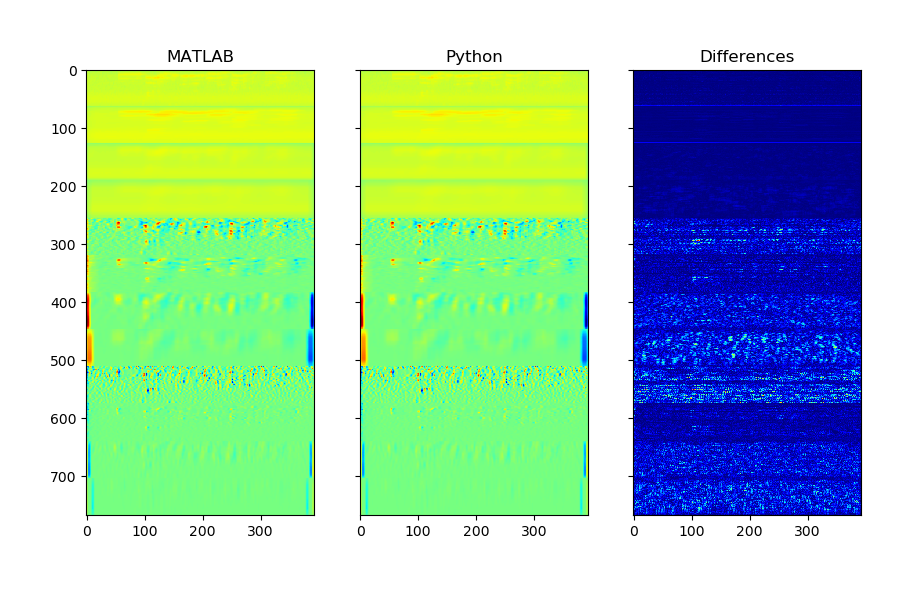
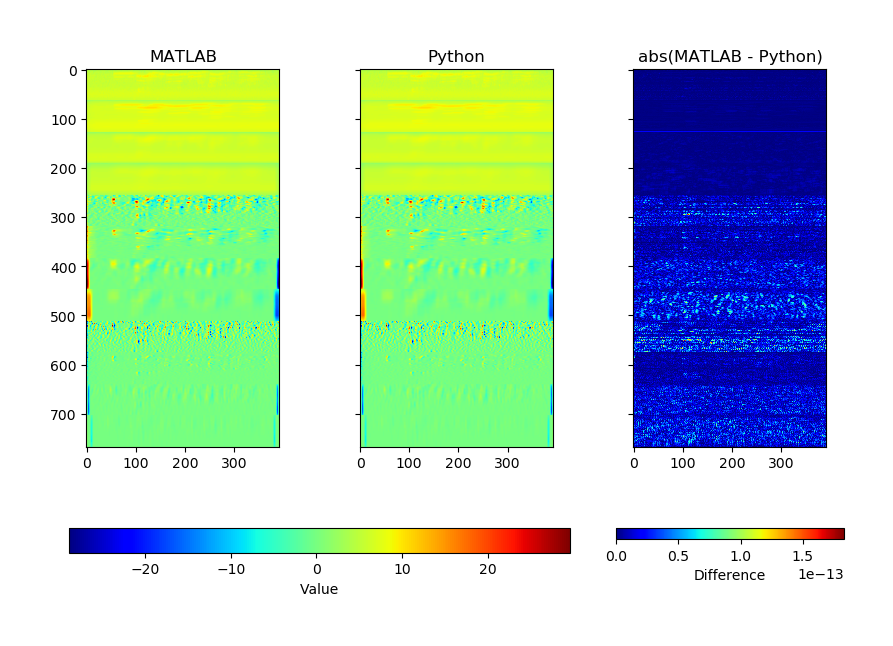
Add colorbars to comparison plot

diff --git a/test_MRCG.py b/test_MRCG.py
@@ -147,23 +147,30 @@ class Test_mrcg_extract(Test_mrcg, unittest.TestCase):
 
     def plot_mrcg(self, mrcg, filename='mrcg_comparison.png'):
         ''' Utility function to save plot of our MRCG to a file '''
-        fig, (ref_ax, our_ax, diff_ax) = plt.subplots(1, 3, 
-                                                     sharex=True,
+        fig, (ref_ax, our_ax, diff_ax) = plt.subplots(nrows=1, ncols=3, 
                                                      sharey=True)
         fig.set_size_inches(10, 7)
         format_kwargs = {
             'cmap':'jet', # Use full range color map for clarity    
         }
         
-        ref_ax.imshow(self.mrcg, **format_kwargs)
+        ref_im = ref_ax.imshow(self.mrcg, **format_kwargs)
         ref_ax.set_title("MATLAB")
         our_ax.imshow(mrcg, **format_kwargs)
         our_ax.set_title("Python")
         
-        # Plot difference
+        # Plot relative difference
         diff = np.abs(self.mrcg - mrcg)
-        diff_ax.imshow(diff, **format_kwargs)
-        diff_ax.set_title("Differences")
+        diff_im = diff_ax.imshow(diff, **format_kwargs)
+        diff_ax.set_title("abs(MATLAB - Python)")
+
+        # Add colorbar to difference
+        diff_cbar = plt.colorbar(diff_im, ax=diff_ax, orientation='horizontal')
+        diff_cbar.set_label("Difference")
+
+        # Add colorbar for total value
+        cbar = plt.colorbar(ref_im, ax=[ref_ax,our_ax], orientation='horizontal')
+        cbar.set_label("Value")
 
         # Save figure, minimal padding/border
         plt.savefig(filename, bbox_inches='tight', pad_inches=0.5)
